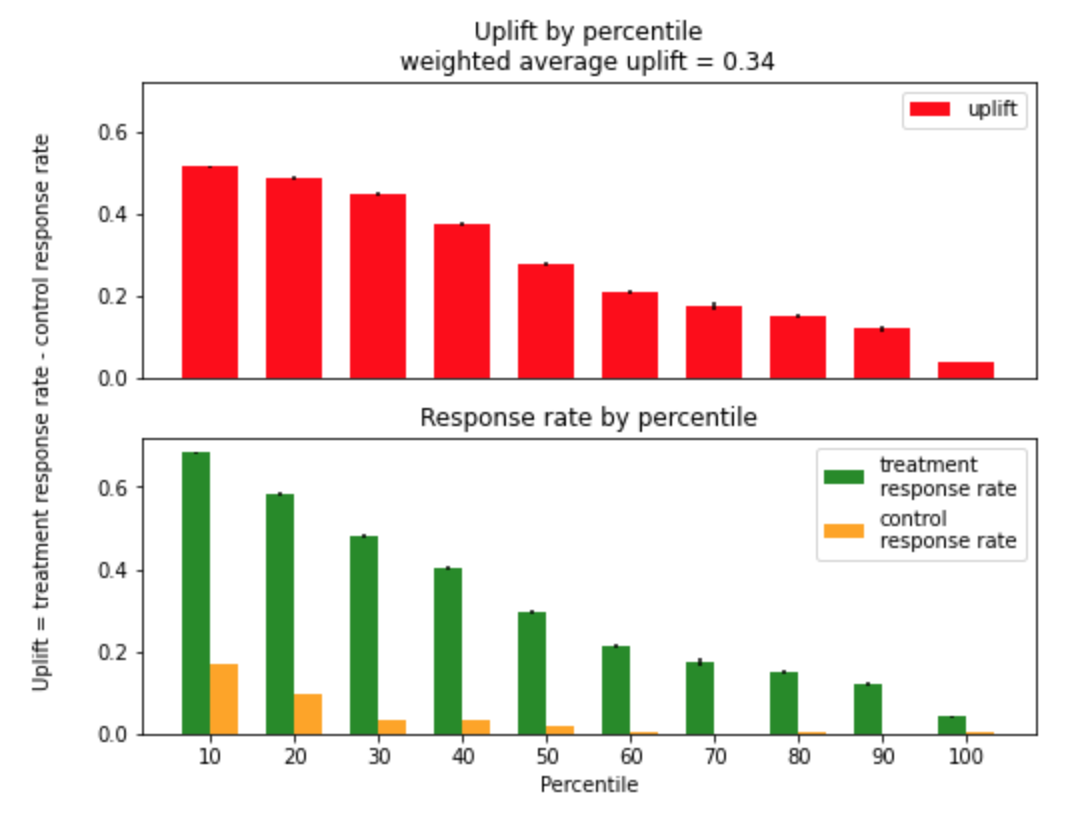
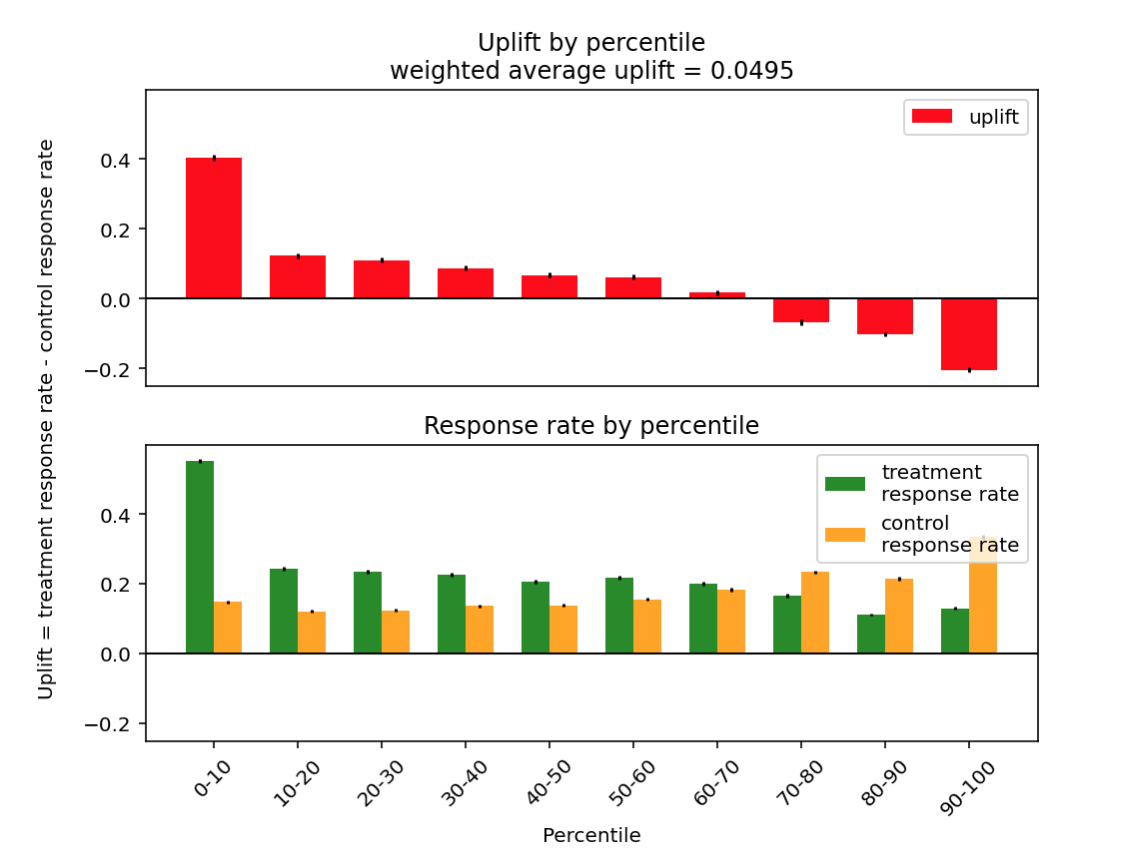
:construction_worker: Update images

Changed region(s): [[0.0913, 0.0, 0.9742, 0.9828], [0.0304, 0.1536, 0.0609, 0.86]]

diff --git a/docs/quick_start.rst b/docs/quick_start.rst
@@ -22,24 +22,25 @@ Use the intuitive python API to train uplift models with `sklift.models  <https:
     :linenos:
 
     # import approaches
-    from sklift.models import SoloModel, ClassTransformation, TwoModels
+    from sklift.models import SoloModel, ClassTransformation
     # import any estimator adheres to scikit-learn conventions.
-    from catboost import CatBoostClassifier
-
+    from lightgbm import LGBMClassifier
 
     # define models
-    treatment_model = CatBoostClassifier(iterations=50, thread_count=3,
-                                         random_state=42, silent=True)
-    control_model = CatBoostClassifier(iterations=50, thread_count=3,
-                                       random_state=42, silent=True)
+    estimator = LGBMClassifier(n_estimators=10)
 
     # define metamodel
-    xlearner = TwoModels(treatment_model, control_model, method='ddr')
+    slearner = SoloModel(estimator=estimator)
+
     # fit model
-    xlearner = xlearner.fit(X_train, y_train, treat_train)
+    slearner.fit(
+        X=X_tr,
+        y=y_tr,
+        treatment=trmnt_tr,
+    )
 
     # predict uplift
-    uplift_preds = xlearner.predict(X_val)
+    uplift_slearner = slearner.predict(X_val)
 
 Evaluate your uplift model
 ===========================
@@ -56,21 +57,21 @@ Uplift model evaluation metrics are available in `sklift.metrics  <https://www.u
 
 
     # Uplift@30%
-    uplift_at_k = uplift_at_k(y_true=y_val, uplift=uplift_preds,
-                              treatment=treat_val,
+    uplift_at_k = uplift_at_k(y_true=y_val, uplift=uplift_slearner,
+                              treatment=trmnt_val,
                               strategy='overall', k=0.3)
 
     # Area Under Qini Curve
-    qini_coef = qini_auc_score(y_true=y_val, uplift=uplift_preds,
-                               treatment=treat_val)
+    qini_coef = qini_auc_score(y_true=y_val, uplift=uplift_slearner,
+                               treatment=trmnt_val)
 
     # Area Under Uplift Curve
-    uplift_auc = uplift_auc_score(y_true=y_val, uplift=uplift_preds,
-                                  treatment=treat_val)
+    uplift_auc = uplift_auc_score(y_true=y_val, uplift=uplift_slearner,
+                                  treatment=trmnt_val)
 
     # Weighted average uplift
-    wau = weighted_average_uplift(y_true=y_val, uplift=uplift_preds,
-                                  treatment=treat_val)
+    wau = weighted_average_uplift(y_true=y_val, uplift=uplift_slearner,
+                                  treatment=trmnt_val)
 
 Vizualize the results
 ======================
@@ -81,12 +82,22 @@ Visualize performance metrics with `sklift.viz  <https://www.uplift-modeling.com
     :linenos:
 
     from sklift.viz import plot_qini_curve
+    import matplotlib.pyplot as plt
 
-    plot_qini_curve(y_true=y_val, uplift=uplift_preds, treatment=treat_val, negative_effect=True)
+    fig, ax = plt.subplots(1, 1)
+    ax.set_title('Qini curves')
+
+    plot_qini_curve(
+        y_test, uplift_slearner, trmnt_test,
+        perfect=True, name='Slearner', ax=ax
+    );
+
+    plot_qini_curve(
+        y_test, uplift_revert, trmnt_test,
+        perfect=False, name='Revert label', ax=ax
+    );
 
 .. image:: _static/images/quick_start_qini.png
-    :width: 514px
-    :height: 400px
     :alt: Example of model's qini curve, perfect qini curve and random qini curve
 
 
@@ -94,12 +105,22 @@ Visualize performance metrics with `sklift.viz  <https://www.uplift-modeling.com
     :linenos:
 
     from sklift.viz import plot_uplift_curve
+    import matplotlib.pyplot as plt
 
-    plot_uplift_curve(y_true=y_val, uplift=uplift_preds, treatment=treat_val)
+    fig, ax = plt.subplots(1, 1)
+    ax.set_title('Uplift curves')
+
+    plot_uplift_curve(
+        y_test, uplift_slearner, trmnt_test,
+        perfect=True, name='Slearner', ax=ax
+    );
+
+    plot_uplift_curve(
+        y_test, uplift_revert, trmnt_test,
+        perfect=False, name='Revert label', ax=ax
+    );
 
 .. image:: _static/images/quick_start_uplift.png
-    :width: 514px
-    :height: 400px
     :alt: Example of model's uplift curve, perfect uplift curve and random uplift curve
 
 .. code-block:: python
@@ -111,6 +132,4 @@ Visualize performance metrics with `sklift.viz  <https://www.uplift-modeling.com
                               treatment=treat_val, kind='bar')
 
 .. image:: _static/images/quick_start_wau.png
-    :width: 514px
-    :height: 400px
     :alt: Uplift by percentile
